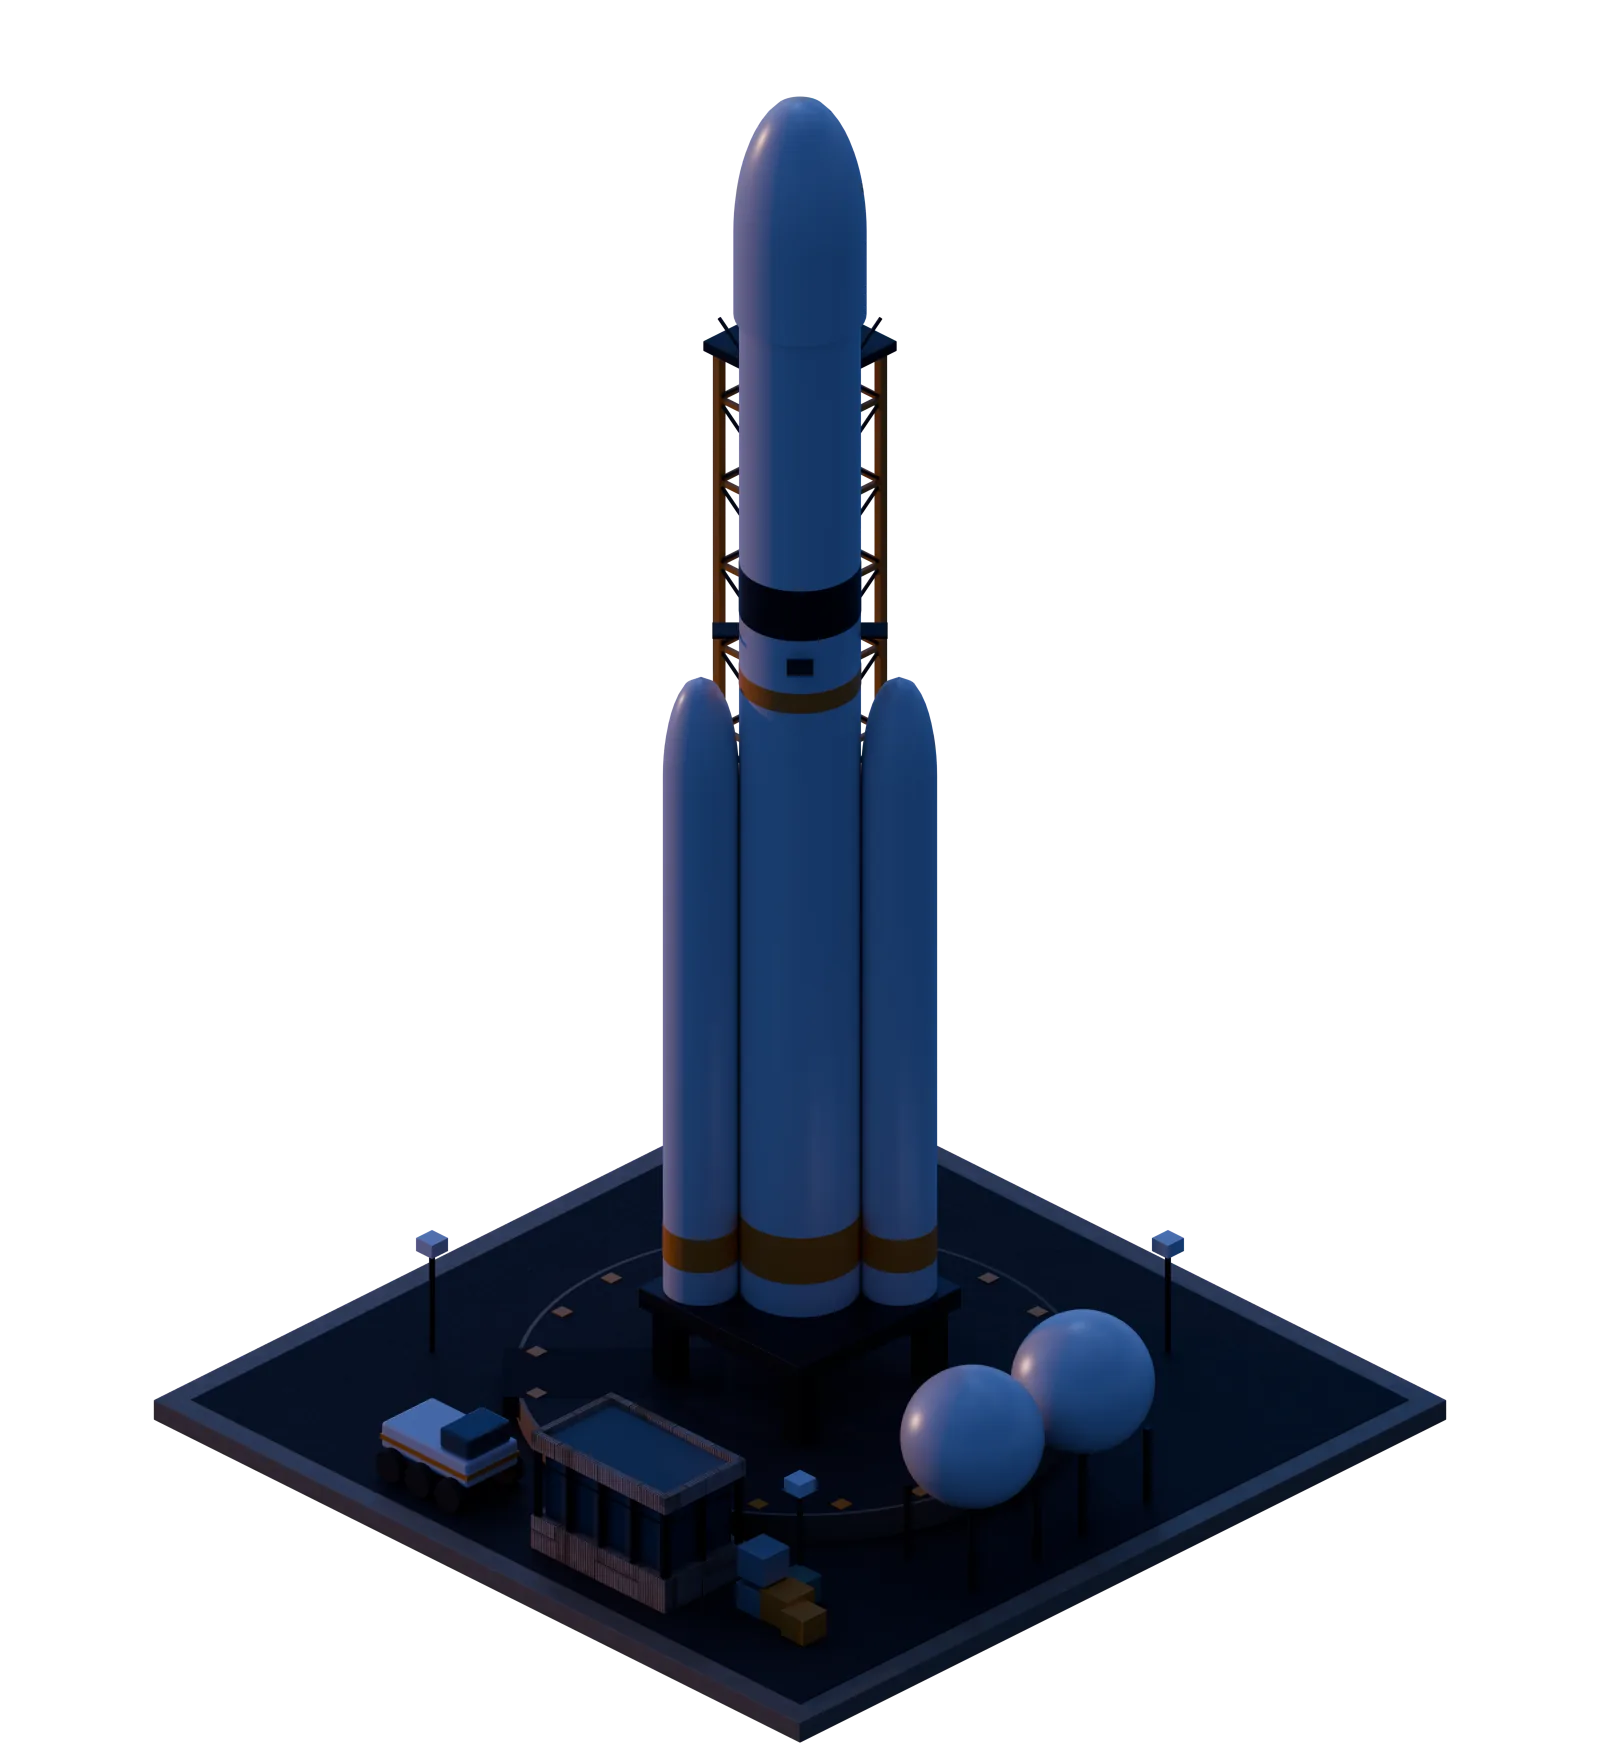
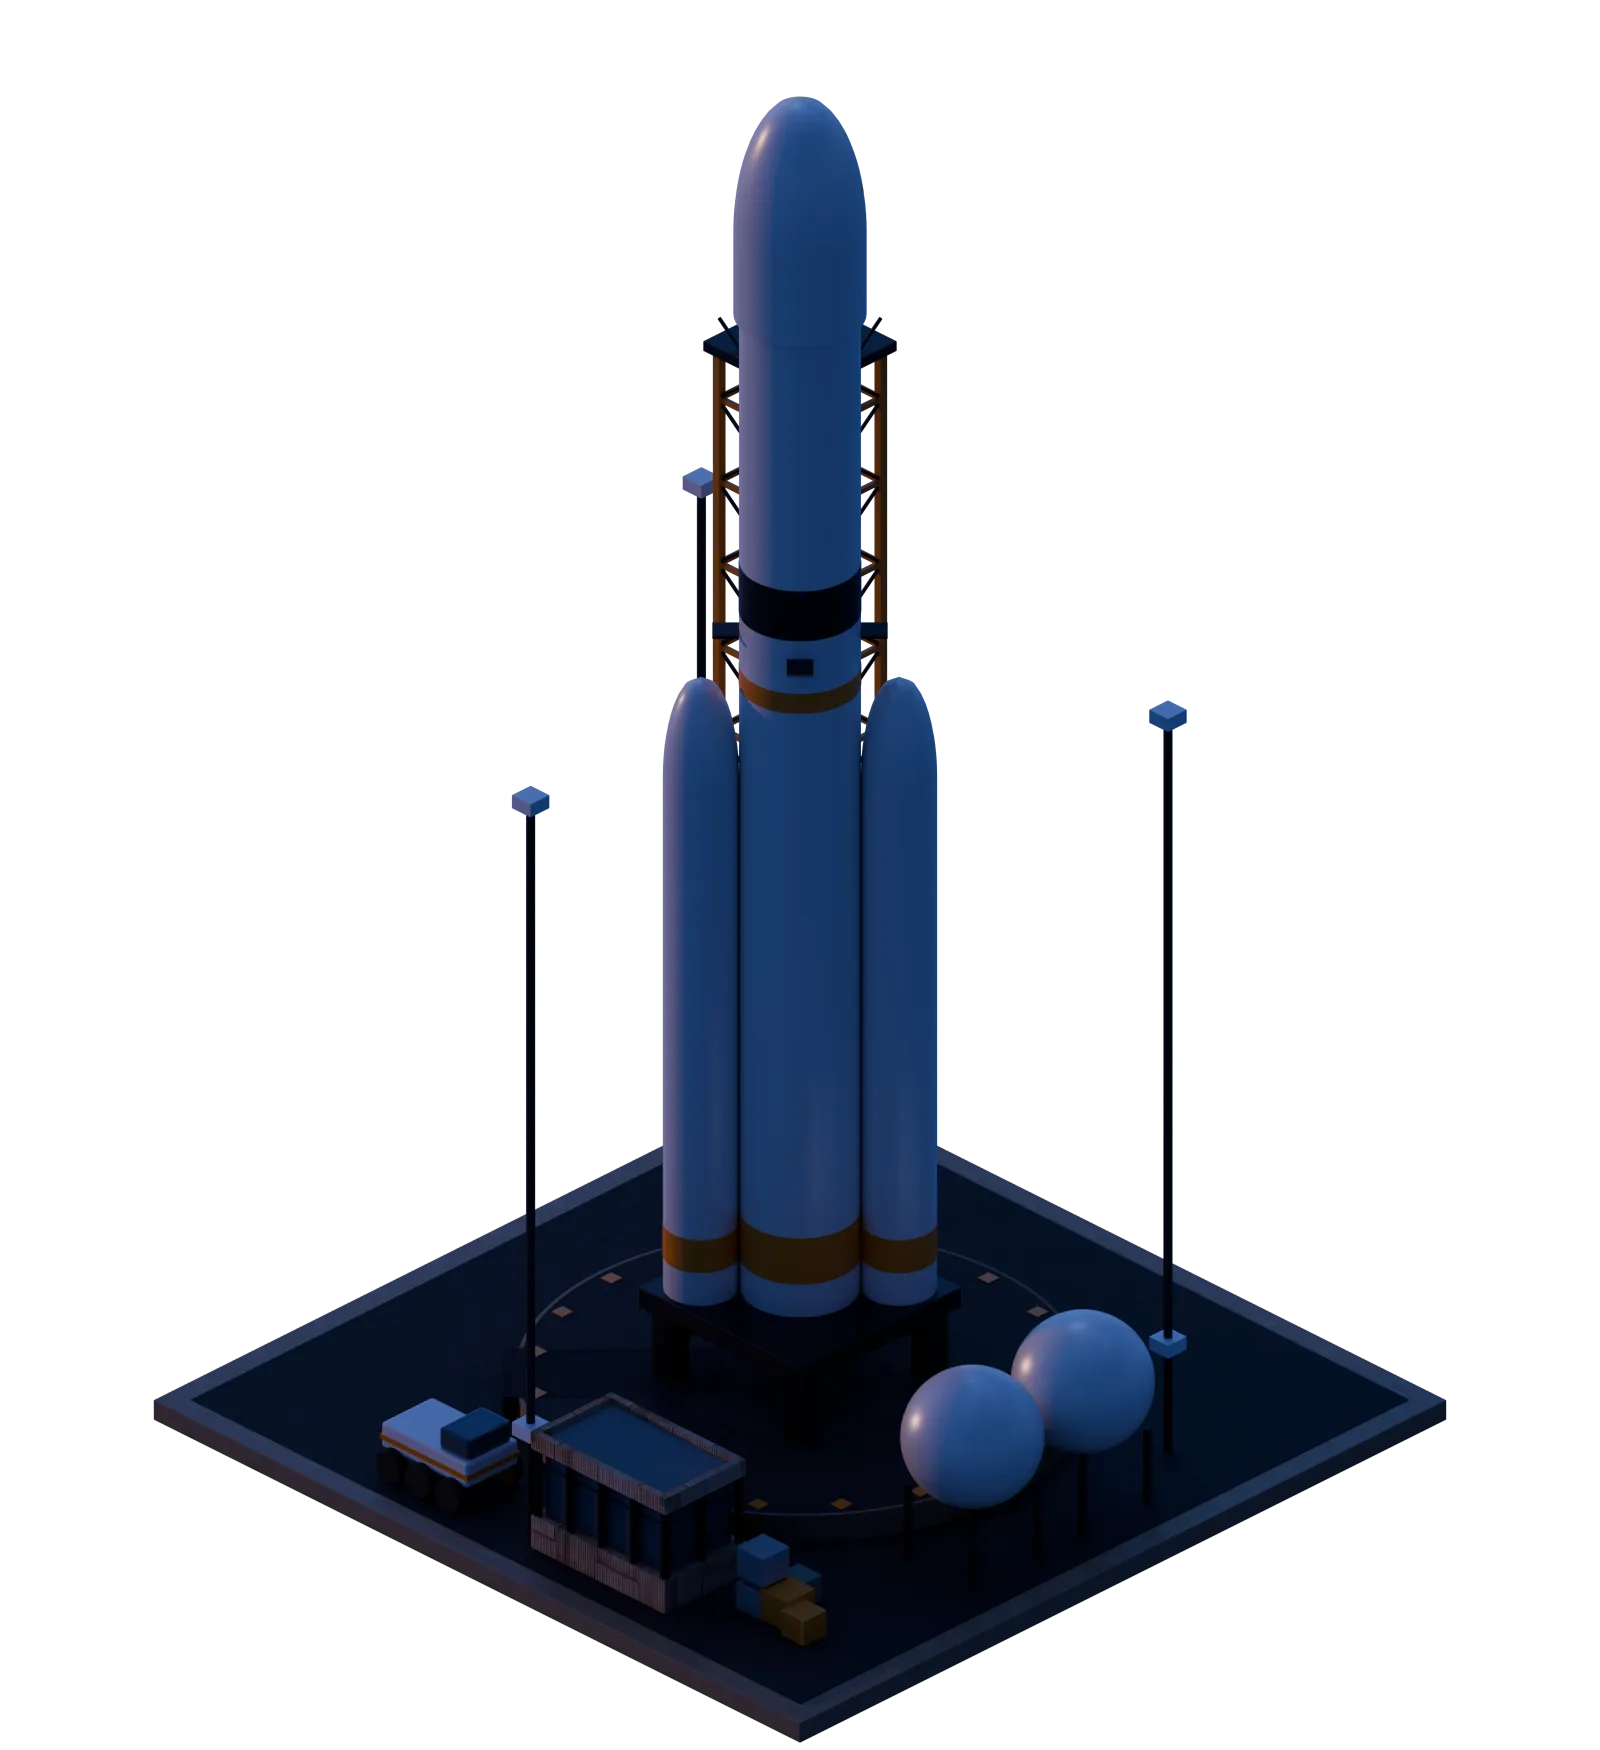
fix(C1): Spaceport glow — the rocket lit to its nose at dusk
Lit only from 3 m poles, the beams grazed the cylinder and its upper half stayed
dark. Now three 22 m light towers each carry a wide low beam (body, boosters) and
a high one aimed at 30 m (upper stage, fairing, fading toward the nose), and work
lamps on three of the gantry's levels. The towers stand at -90°, 30° and 150°, off
the camera's line to the rocket, so no pole crosses it.
Re-rendered standing (day, dusk, glow) at 256 samples.

diff --git a/design/art/colony/spaceport.py b/design/art/colony/spaceport.py
@@ -166,6 +166,11 @@ def build(stage):
         bx(tx - 1.8, tx + 1.8, ty - 1.8, ty + 1.8, ZT + th, ZT + th + 0.3, dark, 0.02, "tower_top")
         cyl("lightning_mast", tx, ty, 0.08, ZT + th + 0.3, ZT + th + 3.5, dark, 8)
         cyl("beacon", tx, ty, 0.2, ZT + th + 3.5, ZT + th + 4.0, signal, 12)
+        if lit:  # work lamps on the gantry's levels, so it reads at night as well
+            lampm = accent("gantry_lamp", (0.9, 0.85, 0.7), glow=6.0, emit=(1.0, 0.8, 0.5))
+            for zl in (ZT + 7.5, ZT + 15.0, ZT + 22.5):
+                bx(tx + 1.5, tx + 1.75, ty - 1.75, ty - 1.5, zl, zl + 0.25, lampm, 0, "gantry_lamp")
+                light("POINT", (tx + 1.9, ty - 1.9, zl + 0.1), 80, (1.0, 0.8, 0.5), 0.2)
     if lit or closed:
         for za in (z0 + 9.0, z0 + 19.0, z0 + 29.8):
             arm = bx(0, 3.4, -0.5, 0.5, 0, 0.7, dark, 0.02, "access_arm")
@@ -200,15 +205,20 @@ def build(stage):
     gl = mat("dead_glass") if (closed or b2) else glass_mat("window_glass_empty", lit_share=0.0) if damaged else None
     kits.modern(3.0, -9.0, 5.0, 3.0, 1, 3.0, concrete if not closed else kits.faded("blockhouse"), "blockhouse", sp=1.0, top_extra=0.5, upto=0 if b1 else None, gl=gl)
     if lit:  # floodlights round the pad, aimed up the rocket: at night it stands lit
-        for a in (math.radians(-45), math.radians(-150), math.radians(60)):
+        for a in (math.radians(-90), math.radians(30), math.radians(150)):  # none on the camera's line to the rocket
             fx, fy = 10.0 * math.cos(a), 10.0 * math.sin(a)
-            cyl("flood_pole", fx, fy, 0.08, ZT, ZT + 3.0, dark, 8)
-            bx(fx - 0.3, fx + 0.3, fy - 0.3, fy + 0.3, ZT + 3.0, ZT + 3.4, accent("pad_flood", (0.9, 0.92, 0.95), glow=18.0, emit=(0.95, 0.97, 1.0)), 0.01, "flood_head")
-            S = light("SPOT", (fx, fy, ZT + 3.2), 9000, (0.95, 0.96, 1.0), 0.3)
-            d = Vector((0 - fx, 0 - fy, 18.0 - 3.2))
-            S.rotation_euler = (-d).to_track_quat("Z", "Y").to_euler()
-            S.data.spot_size = math.radians(24)
-            S.data.spot_blend = 0.4
+            # a 22 m light tower with a head low down for the body and boosters and one at the top for the upper
+            # stage and fairing: lit from the ground alone, the beams graze the cylinder and its top half stays dark
+            head = accent("pad_flood", (0.9, 0.92, 0.95), glow=18.0, emit=(0.95, 0.97, 1.0))
+            cyl("flood_tower", fx, fy, 0.12, ZT, ZT + 22.0, dark, 8)
+            for hz in (3.0, 22.0):
+                bx(fx - 0.35, fx + 0.35, fy - 0.35, fy + 0.35, ZT + hz, ZT + hz + 0.4, head, 0.01, "flood_head")
+            for (hz, aim_z, size, energy) in ((3.2, 12.0, 62, 18000), (22.2, 30.0, 40, 26000)):
+                S = light("SPOT", (fx, fy, ZT + hz), energy, (0.95, 0.96, 1.0), 0.3)
+                d = Vector((0 - fx, 0 - fy, aim_z - hz))
+                S.rotation_euler = (-d).to_track_quat("Z", "Y").to_euler()
+                S.data.spot_size = math.radians(size)
+                S.data.spot_blend = 0.6
         rover = flat("rover_white", (0.82, 0.83, 0.85), 0.4)  # a rover by the blockhouse
         rx_, ry_ = -3.5, -9.5
         bx(rx_ - 1.6, rx_ + 1.6, ry_ - 0.95, ry_ + 0.95, ZT + 0.75, ZT + 1.5, rover, 0.08, "rover_body")
